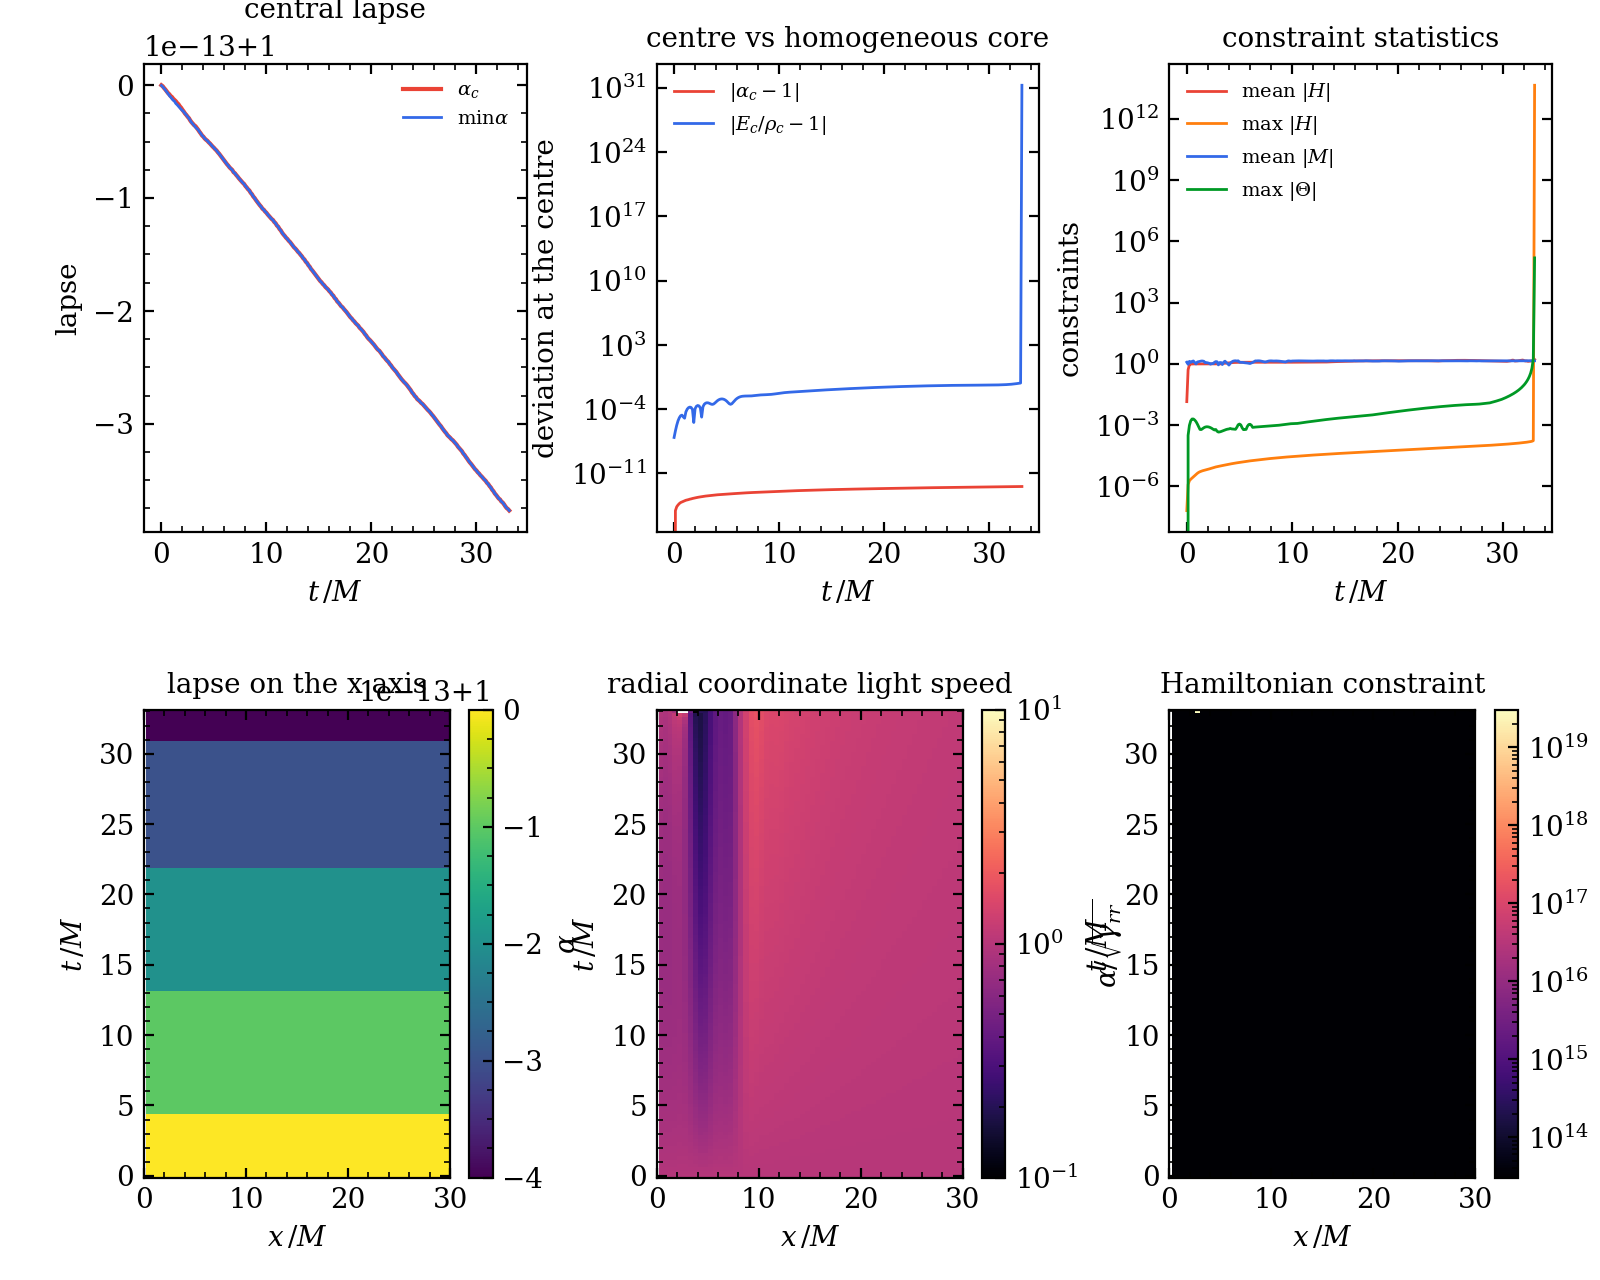
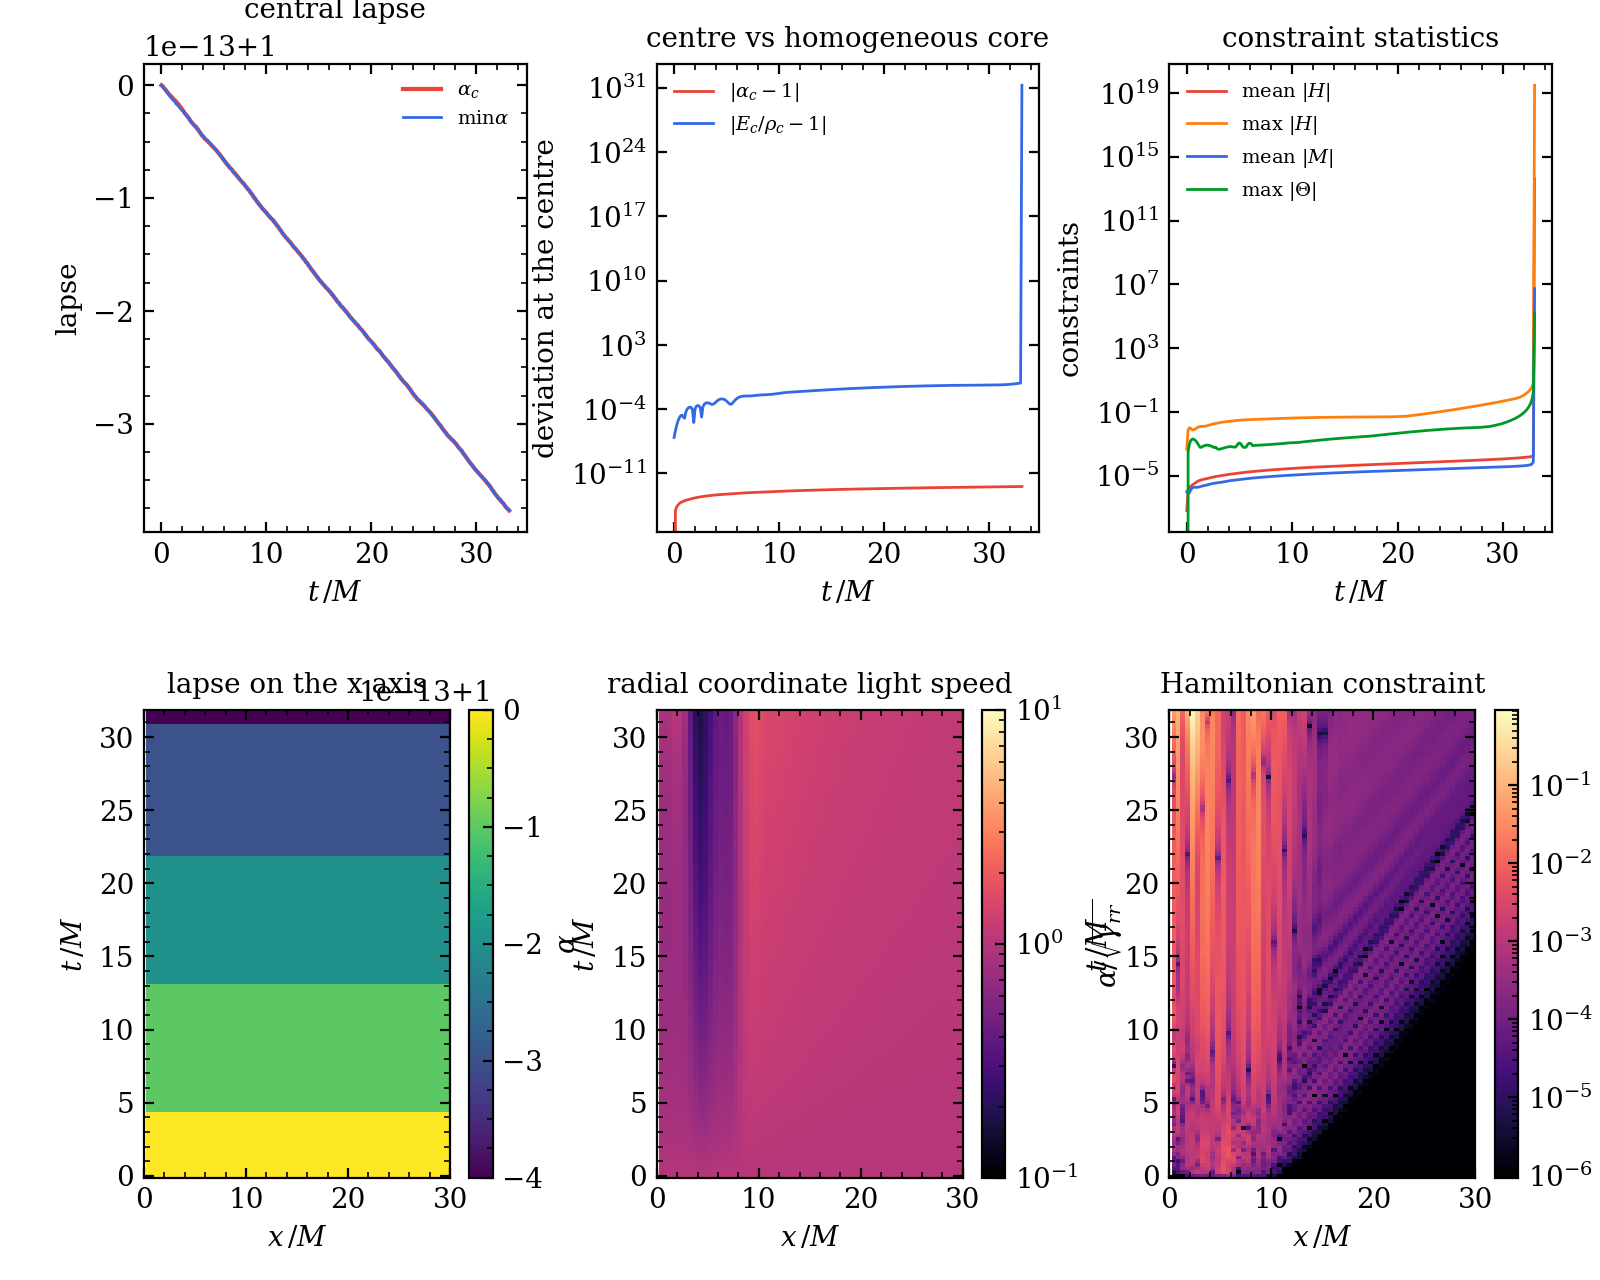
runs_ball: dx = M card runs finished (0.03 card-hours); line compactness diagnostic
Claude-Session: https://claude.ai/code/session_01VD79cUYemmpt27M8dtYPfW

diff --git a/tracks/A-emd-pbh/runs_ball/compare.py b/tracks/A-emd-pbh/runs_ball/compare.py
@@ -377,6 +377,23 @@ def main():
         drift_maxabs_t_le_42=float(np.nanmax([v[3] for v in msum if v[0] <= 42.0] + [np.nan])),
         max_compactness_t0=float(np.nanmax(lines[0]["compact"])) if lines else None)
     hl = [L for L in lines if "horizon" in L]
+    # largest compactness on the line (points beyond one cell from the axis) and the areal
+    # radius of the innermost line point: whether the line can resolve the first horizon
+    # (exact areal radius 2m = 0.161 M)
+    cser = []
+    for L in lines:
+        s_ = L["r"] > 1.01 * a.dx * math.sqrt(0.75)
+        if np.any(s_):
+            k_ = int(np.nanargmax(np.where(s_, L["compact"], -np.inf)))
+            cser.append((L["t"], float(L["compact"][k_]), float(L["r"][k_]), float(L["R"][k_]),
+                         float(L["KT"][k_]), float(L["r"][0]), float(L["R"][0])))
+    res["line_compactness"] = dict(
+        max=float(max([c[1] for c in cser], default=np.nan)),
+        t_of_max=float(cser[int(np.argmax([c[1] for c in cser]))][0]) if cser else None,
+        R_innermost_min=float(min([c[6] for c in cser], default=np.nan)),
+        r_innermost=float(cser[0][5]) if cser else None,
+        series=[dict(t=c[0], max_2m_over_R=c[1], r=c[2], R=c[3], KT=c[4], R_innermost=c[6])
+                for c in cser[:: max(1, len(cser) // 60)]])
     res["lines_nonfinite"] = dict(n=len(nonfinite_t), first_t=min(nonfinite_t) if nonfinite_t else None)
     # where the Hamiltonian residual on the line peaks (gauge pathologies)
     res["line_H_peak"] = [dict(t=L["t"], r=float(L["r"][int(np.nanargmax(np.abs(L["H"])))]),
@@ -453,6 +470,7 @@ def main():
     figures(a, res, ball, ex, t, tau, R, eps, Ri, grp, groups, sh, tta_num, Rmax_num, tah_num, tc_num,
             r, r0, hst, cst, lapse_dev, rho_dev, tau_c, lines, finder)
     print_summary(res)
+    print("  line compactness:", {k: v for k, v in res["line_compactness"].items() if k != "series"})
 
 
 def print_summary(res):
@@ -625,10 +643,23 @@ def figures(a, res, ball, ex, t, tau, R, eps, Ri, grp, groups, sh, tta_num, Rmax
         plt.close(fig)
 
     # ---- F4 horizon
-    fig = plt.figure(figsize=(8.0, 3.4))
-    fig.subplots_adjust(left=0.09, right=0.98, bottom=0.15, top=0.90, wspace=0.30)
-    ax1 = fig.add_subplot(1, 2, 1)
-    ax2 = fig.add_subplot(1, 2, 2)
+    fig = plt.figure(figsize=(8.0, 3.2))
+    fig.subplots_adjust(left=0.08, right=0.98, bottom=0.16, top=0.90, wspace=0.38)
+    ax1 = fig.add_subplot(1, 3, 1)
+    ax2 = fig.add_subplot(1, 3, 2)
+    ax3 = fig.add_subplot(1, 3, 3)
+    cs = res.get("line_compactness", {}).get("series", [])
+    if cs:
+        ax3.plot([c["t"] for c in cs], [c["max_2m_over_R"] for c in cs], color=fs.PAL["red"],
+                 label=r"largest $2m/R$, line")
+        ax3.plot([c["t"] for c in cs], [c["R_innermost"] for c in cs], color=fs.PAL["blue"], lw=1.0,
+                 label=r"$R$ of innermost line point")
+        ax3.axhline(1.0, **fs.GUIDE)
+        ax3.axhline(2 * ex["first_trapped"]["m"], color="k", lw=1.0, ls=":", label=r"$R_{\rm AH}$ exact")
+        ax3.set_yscale("log")
+        ax3.set_xlabel(r"$t\,/M$")
+        ax3.legend(fontsize=7, loc="lower left")
+        ax3.set_title("can the line see a horizon?", fontsize=9)
     if finder:
         ft = np.array([f["t"] for f in finder])
         ax1.plot(ft, [f["m_irr"] for f in finder], "o-", color=fs.PAL["red"], ms=3, lw=1.0, label=r"finder $\sqrt{A/16\pi}$")
